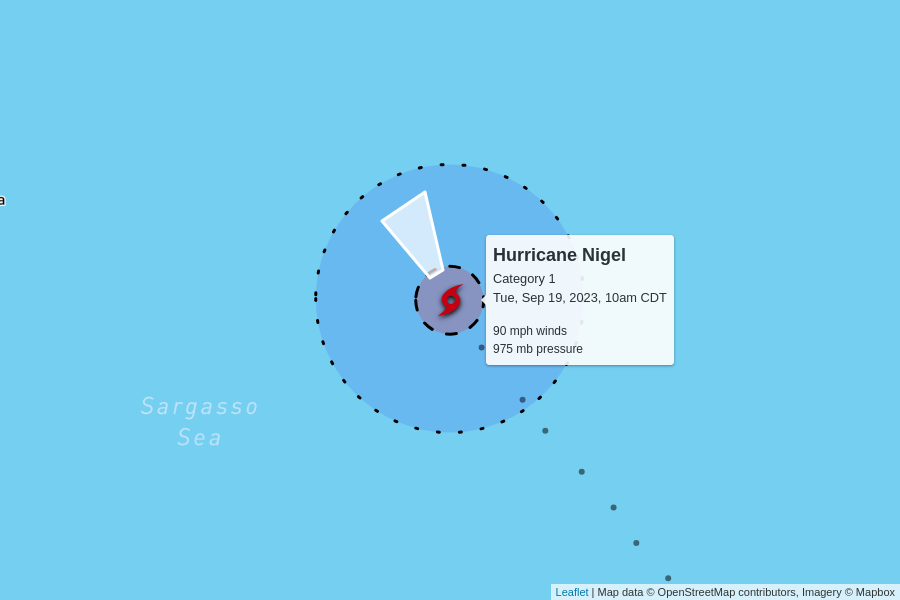
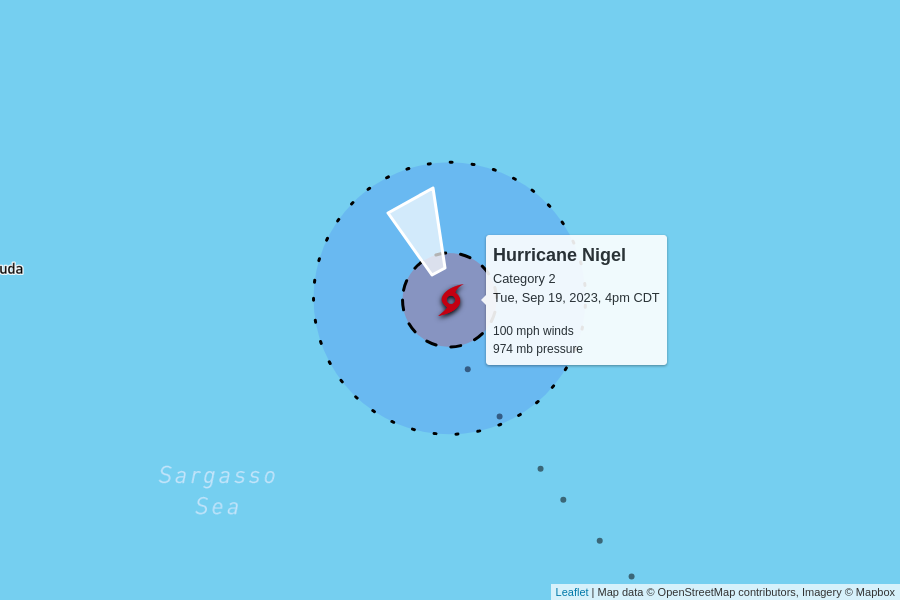
automatic update

diff --git a/docs/index.html b/docs/index.html
@@ -99,10 +99,10 @@
 
     <table>
       <tr>
-        <td colspan="6" class="storm category-1" >
+        <td colspan="6" class="storm category-2" >
           <h2>
-            Hurricane Nigel - Category 1
-            <p class="updated">last updated <span data-time>2023-09-19T15:00:00.000Z</span></p>
+            Hurricane Nigel - Category 2
+            <p class="updated">last updated <span data-time>2023-09-19T21:00:00.000Z</span></p>
           </h2>
         </td>
       </tr>
@@ -117,12 +117,12 @@
       </tr>
       <tr>
         <td class="spacer"></td>
-        <td>90 mph<br>+5 mph since last update</td>
-        <td>975 mb<br>-4 mb since last update</td>
+        <td>100 mph<br>+10 mph since last update</td>
+        <td>974 mb<br>-1 mb since last update</td>
         <td>
-          16 mph to the north-northwest
+          14 mph to the north-northwest
           <br/>
-          <span style="display: inline-block; font-size: 1.5em; transform: rotate(330deg);">↑</span>
+          <span style="display: inline-block; font-size: 1.5em; transform: rotate(335deg);">↑</span>
         </td>
         <td><a href="https://raw.githubusercontent.com/mgwalker/atlantic-hurricanes/main/data/csv/AL152023.csv">AL152023.csv</a></td>
         <td><a href="https://www.nhc.noaa.gov/archive/2023/NIGEL.shtml?">NHC advisories</a></td>
